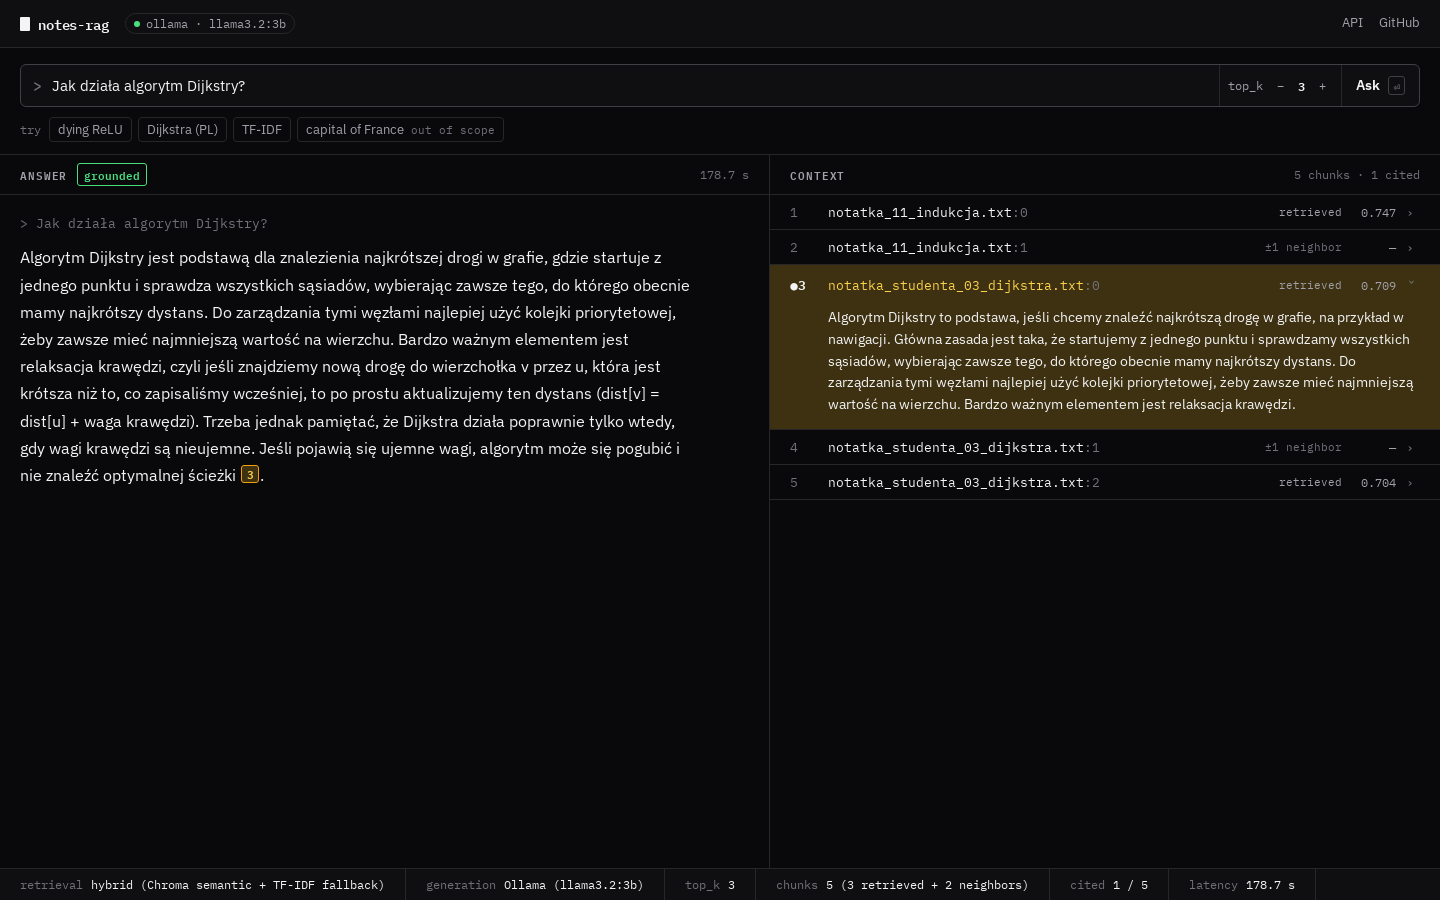
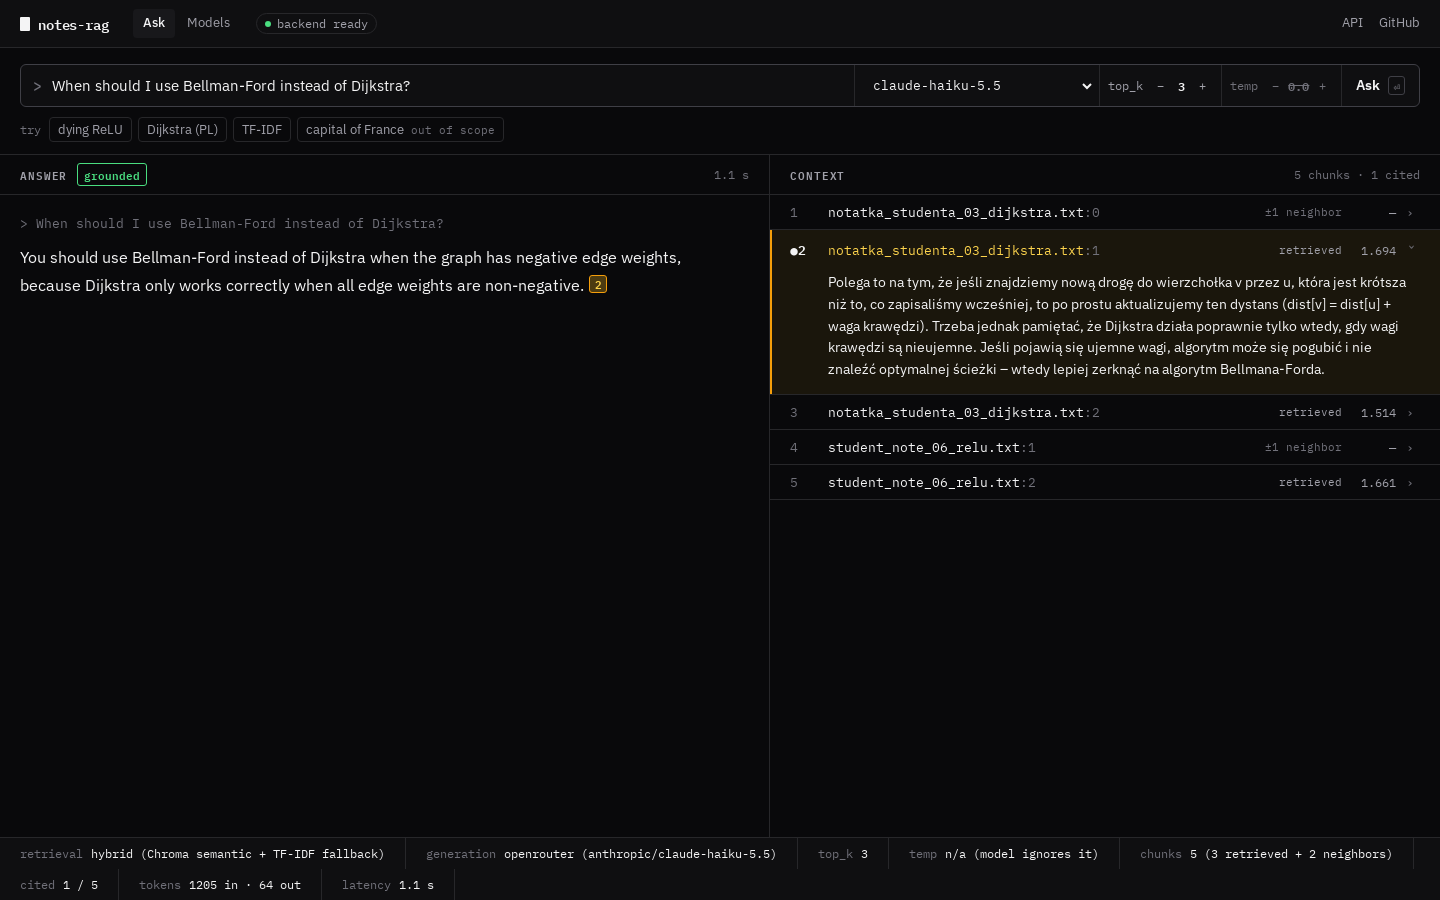
docs: model benchmark section, Haiku default, refreshed screenshots

diff --git a/README.md b/README.md
@@ -1,11 +1,11 @@
 # Notes RAG Assistant
 
-> A local-first question-answering assistant over your own study notes. It is not a general chatbot: it answers only from indexed notes, returns source citations when answering, and refuses when the notes do not contain enough information.
+> A question-answering assistant over your own study notes. It is not a general chatbot: it answers only from indexed notes, returns source citations when answering, and refuses when the notes do not contain enough information. The LLM behind it was chosen by [benchmarking six models](#model-benchmark-which-llm-is-worth-paying-for) on grounding, cost and latency.
 
 ![Python](https://img.shields.io/badge/Python-3.10+-blue)
 ![FastAPI](https://img.shields.io/badge/FastAPI-backend-009688)
 ![ChromaDB](https://img.shields.io/badge/ChromaDB-vector%20store-ff6f00)
-![LLM](https://img.shields.io/badge/LLM-Ollama%20%2F%20local-7c3aed)
+![LLM](https://img.shields.io/badge/LLM-OpenRouter%20%C2%B7%20Claude%20Haiku%205.5-7c3aed)
 
 Repository: https://github.com/kat1478/notes-rag-assistant
 
@@ -20,6 +20,8 @@ with their raw retrieval score; the bottom strip shows retrieval/generation mode
 ![Grounded answer with the cited chunk highlighted](docs/screenshots/answer_dark.png)
 
 ![Light theme, multi-step answer citing three chunks](docs/screenshots/answer_light.png)
+
+![Models view: the benchmark inside the app — pick a model to use it for answers](docs/screenshots/models_view.png)
 
 <details>
 <summary>Start screen and mobile layout</summary>
@@ -50,13 +52,15 @@ This repository contains a working local MVP:
 
 - FastAPI backend with `/ask`, `/search`, `/ingest`, `/ingest/batch`, and `/health`
 - persistent ChromaDB vector store
-- local Ollama generation with `llama3.2:3b`
+- pluggable LLM providers: OpenRouter (default model Claude Haiku 5.5, chosen by benchmark) or local Ollama
+- per-request model and temperature selection, with token usage reported per answer
 - static browser frontend linking each citation to its source chunk
 - answer status (grounded / refused / no citation), run statistics and backend status
 - smoke test for the Stage 4 application layer
 - retrieval, answer-quality, and validation evaluation artifacts
+- a model benchmark (6 models, 94 questions, frozen corpus) with charts and an interactive comparison view
 
-The next planned technical step is adding OpenRouter as an optional hosted LLM provider.
+The next planned technical step is an LLM-as-judge for answer correctness, then multilingual embeddings.
 
 ---
 
@@ -77,14 +81,14 @@ flowchart LR
         RET --> VDB
         RET --> EXP["Neighbor context<br/>expansion (±1 chunk)"]
         EXP --> ANS["Answering<br/>grounded prompt + citation rules"]
-        ANS --> LLM["Ollama (llama3.2:3b)"]
+        ANS --> LLM["LLM provider<br/>OpenRouter: Claude Haiku 5.5 (default)<br/>or local Ollama"]
         LLM --> API
     end
 
     API -->|grounded answer + cited source snippets| U
 ```
 
-**Pipeline:** `FastAPI → chunking → embeddings → ChromaDB → retrieval (+ neighbor expansion) → Ollama (llama3.2:3b) LLM → grounded answer with source citations`
+**Pipeline:** `FastAPI → chunking → embeddings → ChromaDB → retrieval (+ neighbor expansion) → LLM (Claude Haiku 5.5 via OpenRouter by default) → grounded answer with source citations`
 
 | Layer        | Component                                                                        |
 | :----------- | :------------------------------------------------------------------------------- |
@@ -93,7 +97,7 @@ flowchart LR
 | Embeddings   | `sentence-transformers` — `all-MiniLM-L6-v2`                                     |
 | Vector store | ChromaDB (persistent, per-file upsert/delete)                                    |
 | Retrieval    | Semantic (Chroma) with TF-IDF fallback + 1-hop neighbor context expansion        |
-| Generation   | Ollama (local model `llama3.2:3b`), `temperature = 0.0`, strict grounding prompt |
+| Generation   | Provider layer: OpenRouter (allowlisted models) or Ollama; `temperature = 0.0` by default, strict grounding prompt |
 | Frontend     | Vanilla HTML/CSS/JS: answer ↔ context linking, run statistics, light/dark theme  |
 
 ---
@@ -103,17 +107,9 @@ flowchart LR
 ### 1. Prerequisites
 
 - Python 3.10+
-- [Ollama](https://ollama.com/) installed and running locally
+- An [OpenRouter](https://openrouter.ai/keys) API key (the default model costs about $0.18 per 1,000 questions)
 
-### 2. Setup Ollama
-
-Start Ollama on your machine and run the following command to pull the required Llama 3.2 3B model:
-
-```bash
-ollama pull llama3.2:3b
-```
-
-### 3. Install
+### 2. Install
 
 ```bash
 git clone https://github.com/kat1478/notes-rag-assistant.git
@@ -121,9 +117,17 @@ cd notes-rag-assistant/backend
 pip install -r requirements.txt
 ```
 
+### 3. Configure the model
+
+```bash
+cp .env.example .env      # then set OPENROUTER_API_KEY=... in .env (git-ignored)
+```
+
+Optional — fully local, no key: install [Ollama](https://ollama.com/), run `ollama pull llama3.2:3b`, and set
+`OLLAMA_ENABLED=true` and `DEFAULT_MODEL_ID=ollama:llama3.2:3b` in `.env` (expect ~40 s per answer on a CPU).
+
 ### 4. Add and Ingest Notes
 
-This system is local-first and API-key-free (no `.env` file or OpenRouter keys required).
 Drop your `.txt` or `.md` study notes into the directory:
 
 ```
@@ -146,7 +150,7 @@ python -m uvicorn app.main:app --host 127.0.0.1 --port 8000
 
 ### 6. Open the App
 
-Navigate to **http://localhost:8000/** in your browser. The root URL automatically redirects to the static frontend. The status pill in the top bar shows the active model (green dot) or `backend offline`.
+Navigate to **http://localhost:8000/** in your browser. The root URL automatically redirects to the static frontend. The status pill in the top bar shows `backend ready` (green dot) or `backend offline`; the model picker next to the question box lists the available models, and the **Models** tab shows the benchmark.
 
 ### 7. Run the Smoke Test
 
@@ -163,11 +167,11 @@ The smoke test has been executed and passed successfully. Example output from th
 ```
 Starting Stage 4 Smoke Test against http://127.0.0.1:8000...
 
-[PASS] GET /health - Model: llama3.2:3b
+[PASS] GET /health - Default model: openrouter:anthropic/claude-haiku-5.5
 [PASS] GET / - Resolved URL: http://127.0.0.1:8000/frontend/
 [PASS] GET /frontend/ - HTML loaded successfully
-Sending POST /ask ('What is ReLU?')... (LLM inference may take 5-20 seconds)
-[PASS] POST /ask - Answer length: 132 chars, time: 46614.58 ms
+Sending POST /ask ('What is ReLU?') with the default model...
+[PASS] POST /ask - Answer length: 430 chars, time: 5050.5 ms
 
 --- Summary ---
 All smoke tests PASSED!
@@ -199,7 +203,7 @@ chunk in the context panel.
 
 Evaluation is a first-class part of this project. Datasets and execution metrics are tracked under [`backend/data/eval/`](backend/data/eval/).
 
-### a) Main Benchmark (After Stage 3D)
+### a) Main Benchmark (After Stage 3D — corpus v1, local `llama3.2:3b`)
 
 Evaluated on the 32-query benchmark dataset containing 30 in-scope (grounded) questions and 2 out-of-scope questions (measured on the final system with Ollama `llama3.2:3b` on CPU):
 
@@ -225,13 +229,103 @@ Validation pass performed on a held-out set of previously unseen notes (`notatka
 
 ---
 
+## Model benchmark: which LLM is worth paying for?
+
+**[→ Open the interactive version](https://kat1478.github.io/notes-rag-assistant/benchmark/)** — hover for details, click a
+model to highlight it in every chart. It is the same view as the app's **Models** tab.
+
+<picture>
+  <source media="(prefers-color-scheme: dark)" srcset="docs/benchmark/models-dark.svg">
+  <img alt="Six models compared on grounding, citations, latency and cost; Claude Haiku 5.5 highlighted as the most cost-effective" src="docs/benchmark/models-light.svg">
+</picture>
+
+**Setup.** Six hosted models (via OpenRouter) answered the same **94 questions** from **identical retrieved context** —
+retrieval runs once per question, so differences come from generation only. `temperature = 0`; hidden reasoning is
+disabled where the model allows it (Claude Sonnet 5.5 makes it mandatory, so it ran at the lowest effort). Cost is
+token usage × OpenRouter list prices at run time. The corpus (v2, frozen) is the 11 original notes plus 12 synthetic
+near-topic notes; 17 questions are out of scope, 12 of them traps such as *"What is Expected Sarsa?"* when only a
+Sarsa note exists.
+
+**Grounding split.** When retrieval did not return the note that holds the answer, the correct grounded behaviour is to
+refuse — so those 18 questions are scored as refusal tests, not answer tests.
+
+| Model | Answers — context has it (n=59) | Refuses — retrieval missed (n=18) | Refuses — out of scope (n=17) | Cites a real chunk | Median latency | $ / 1k questions |
+| :--- | ---: | ---: | ---: | ---: | ---: | ---: |
+| llama-3.2-3b | 97% | 56% | 88% | 87% | 0.7 s | $0.06 |
+| qwen3-30b | 98% | 83% | 94% | 97% | 2.2 s | $0.11 |
+| gemma-4-31b | 97% | 94% | 100% | 100% | 1.1 s | $0.20 |
+| **claude-haiku-5.5** (default) | 97% | 100% | 100% | 100% | 1.1 s | $0.18 |
+| claude-sonnet-5.5 | 98% | 94% | 100% | 100% | 1.9 s | $3.85 |
+| gpt-5.6-sol | 98% | 94% | 100% | 100% | 1.5 s | $4.39 |
+
+**What I took from it**
+
+- **Answering is saturated (97–98% for every model); the difference is knowing when *not* to answer.** The 3B model
+  answers without a source in almost half of the unsupported cases.
+- **Claude Haiku 5.5 became the app's default:** it is the cheapest model reaching ≥ 95% on all four grounding metrics
+  (100% correct refusals, ~1 s, $0.18 per 1,000 questions) — on par with GPT-5.6 Sol and Claude Sonnet 5.5 at
+  roughly 1/22 of their cost.
+- **Local `llama3.2:3b` (Ollama) is left out:** 5–110 s per answer on my laptop CPU rules it out as a product option.
+  The same model, hosted, is in the chart; local inference can still be enabled with `OLLAMA_ENABLED=true`.
+
+### Parameters tested
+
+<picture>
+  <source media="(prefers-color-scheme: dark)" srcset="docs/benchmark/temperature-dark.svg">
+  <img alt="Temperature 0 vs 0.7 over three runs each for Gemma 4 31B and Llama 3.2 3B" src="docs/benchmark/temperature-light.svg">
+</picture>
+
+**Temperature 0 vs 0.7, three full runs each.** Gemma 4 31B gives the same grounding numbers in all six runs. Llama 3.2 3B
+moves by up to ~20 pp *between repeated runs* — and is not stable even at temperature 0, because hosted endpoints are
+not bit-deterministic. Takeaway: with a small model, single-run differences below ~10 pp are noise.
+
+<picture>
+  <source media="(prefers-color-scheme: dark)" srcset="docs/benchmark/retrieval-topk-dark.svg">
+  <img alt="Retrieval hit rate by top_k: same-language questions reach 100%, cross-language questions 62% at top_k 3" src="docs/benchmark/retrieval-topk-light.svg">
+</picture>
+
+**Retrieval top_k sweep (free — embeddings only).** The bottleneck is retrieval, not the LLM: questions in the same
+language as their note hit 100% from `top_k = 2`, while cross-language ones (English question, Polish note) reach only
+62% at the `top_k = 3` used above and 81% even at 8. This is what the next stage — multilingual embeddings — targets.
+
+### What the benchmark caught along the way
+
+- **Refusals in another language.** The model often refuses in Polish (*"Nie ma w tym tekście informacji…"*) instead of
+  the fixed English sentence, which the scorer counted as an answer. Fixed the detector and added `--rescore`, which
+  recomputes saved runs without new API calls.
+- **Corpus drift.** An out-of-scope question from the May evaluation (*"What is Bellman-Ford used for?"*) turned into a
+  hallucination trap after a Q-learning note mentioning "Bellman" was added. Hence a frozen corpus per benchmark version;
+  old results stay valid for their own corpus.
+- **Reasoning is not always optional.** Claude Sonnet 5.5 rejects disabling it (HTTP 400); the client now falls back to
+  the lowest effort and records the setting per run.
+- **Latency hygiene.** A laptop that went to sleep mid-run inflated latencies; the benchmark now detects host
+  suspension and excludes those timings, and warms local models up before timing.
+- **Guardrails:** a model allowlist, a `--max-cost-usd` budget guard, and an abort if the context comes from the wrong
+  corpus. Total API spend for everything on this page: under $1.
+
+**Reproduce** (from `backend/`, with `OPENROUTER_API_KEY` in `backend/.env`):
+
+```bash
+python -m app.ingest_corpus --corpus v2                              # build the v2 vector collection
+python -m app.run_model_benchmark --corpus v2 --retrieval-only       # free: retrieval hit rates
+python -m app.run_model_benchmark --corpus v2 --max-cost-usd 5       # all allowlisted models
+python -m app.run_model_benchmark --corpus v2 --temperature 0.7 --run-tag r1 \
+       --out-dir data/eval/v2/temperature --models openrouter:google/gemma-4-31b-it
+python -m app.render_benchmark_charts                                # charts + interactive page → docs/benchmark/
+```
+
+**Limits.** "Answered" is not "correct" — answer correctness is not judged yet (an LLM-as-judge against the dataset's
+expected key points is the next step). The 12 added notes are synthetic, and n is small: one question is 1.7–6 pp.
+
+---
+
 ## Known Limitations
 
 Based on validation run insights, the system has the following limitations:
 
-- **Cross-lingual retrieval gap:** The monolingual English embedding model (`all-MiniLM-L6-v2`) fails on Polish concepts with no spelling/lexical overlap (e.g., _indukcja_ vs _inductive_). Retrieval succeeds when technical terms share spelling roots across English/Polish (e.g., _Bayes_ → _Bayesowski_ or _Markov_ → _Markowa_), but fails when there is no orthographic overlap (e.g., _hypothesis space_ vs _przestrzeń wersji_).
+- **Cross-lingual retrieval gap:** The monolingual English embedding model (`all-MiniLM-L6-v2`) fails on Polish concepts with no spelling/lexical overlap (e.g., _indukcja_ vs _inductive_). Retrieval succeeds when technical terms share spelling roots across English/Polish (e.g., _Bayes_ → _Bayesowski_ or _Markov_ → _Markowa_), but fails when there is no orthographic overlap (e.g., _hypothesis space_ vs _przestrzeń wersji_). On the larger v2 corpus, cross-language questions find the right note only 62% of the time at `top_k = 3` (see [Model benchmark](#parameters-tested)).
 - **Context fragmentation:** The 1-hop neighbor expansion (±1 chunk) misses relevant information lying 2+ chunks away from the primary hit.
-- **Latency / model limitations:** The small model (`llama3.2:3b`) running on CPU is slow (averaging ~39.0 seconds per response) and sensitive to prompt/context size. Under large context sizes, it can become overly cautious and refuse to answer even when the answer is present in the context. Note: The first query after startup may take 30-45+ seconds as Ollama loads the model into memory; subsequent queries are faster.
+- **Latency / model limitations (local mode):** The small model (`llama3.2:3b`) running on CPU is slow (averaging ~39.0 seconds per response) and sensitive to prompt/context size. Under large context sizes, it can become overly cautious and refuse to answer even when the answer is present in the context. Note: The first query after startup may take 30-45+ seconds as Ollama loads the model into memory; subsequent queries are faster.
 
 For a full failure analysis, see [`validation_summary.md`](backend/data/eval/validation_summary.md) and the Stage 3D comparison docs in [`backend/data/eval/`](backend/data/eval/).
 
@@ -248,12 +342,16 @@ backend/
     vector_store.py    # ChromaDB persistence
     retrieval.py       # semantic + TF-IDF fallback + neighbor expansion
     answering.py       # grounding prompt + citation rules
-    llm_client.py      # LLM API client
+    provider.py        # LLM providers (OpenRouter, Ollama), model allowlist
+    llm_client.py      # thin facade over the providers
     run_retrieval_eval.py / run_answer_eval.py
+    run_model_benchmark.py / render_benchmark_charts.py / ingest_corpus.py
   data/
-    notes/             # sample study notes (indexed)
-    eval/              # evaluation datasets, results, and analysis
-frontend/              # vanilla HTML/CSS/JS UI
+    notes/             # sample study notes (corpus v1, indexed by the app)
+    notes_v2/          # frozen benchmark corpus: v1 notes + 12 synthetic near-topic notes
+    eval/              # evaluation datasets, results, and analysis (eval/v2/: model benchmark)
+frontend/              # vanilla HTML/CSS/JS UI (Ask + Models views)
+docs/benchmark/        # README charts + static interactive benchmark page (GitHub Pages)
 ```
 
 ---
@@ -265,15 +363,17 @@ frontend/              # vanilla HTML/CSS/JS UI
 - It exposes retrieved source chunks instead of hiding them.
 - It includes a validation run on unseen notes.
 - It ships with a local frontend and smoke test, not only an API endpoint.
+- Its model was picked by a reproducible benchmark, not by default.
 
 ---
 
 ## Roadmap / Next steps
 
-- [ ] **Add OpenRouter provider** — optional hosted generation backend to reduce local setup friction and potentially improve latency.
+- [x] **OpenRouter provider + model benchmark** — six models compared; Claude Haiku 5.5 chosen as default ([results](#model-benchmark-which-llm-is-worth-paying-for)).
+- [ ] **LLM-as-judge** — score answer correctness against the dataset's expected key points, not only answer/refusal.
 - [ ] **Reranking** — add a cross-encoder reranker over the top-k candidates to improve answer precision.
 - [ ] **Hybrid search** — combine dense (embeddings) with sparse (BM25) retrieval instead of TF-IDF fallback.
-- [ ] **Multilingual embeddings** — swap `all-MiniLM-L6-v2` for a multilingual model to close the cross-lingual gap.
+- [ ] **Multilingual embeddings** — swap `all-MiniLM-L6-v2` for a multilingual model to close the cross-lingual gap (62% → ? hit rate on cross-language questions).
 - [ ] **Docker Compose** — one-command, reproducible setup.
 - [ ] **API authentication** — protect the endpoints for any non-local deployment.
 - [ ] **Deployment** — host the API + a small managed vector store.
